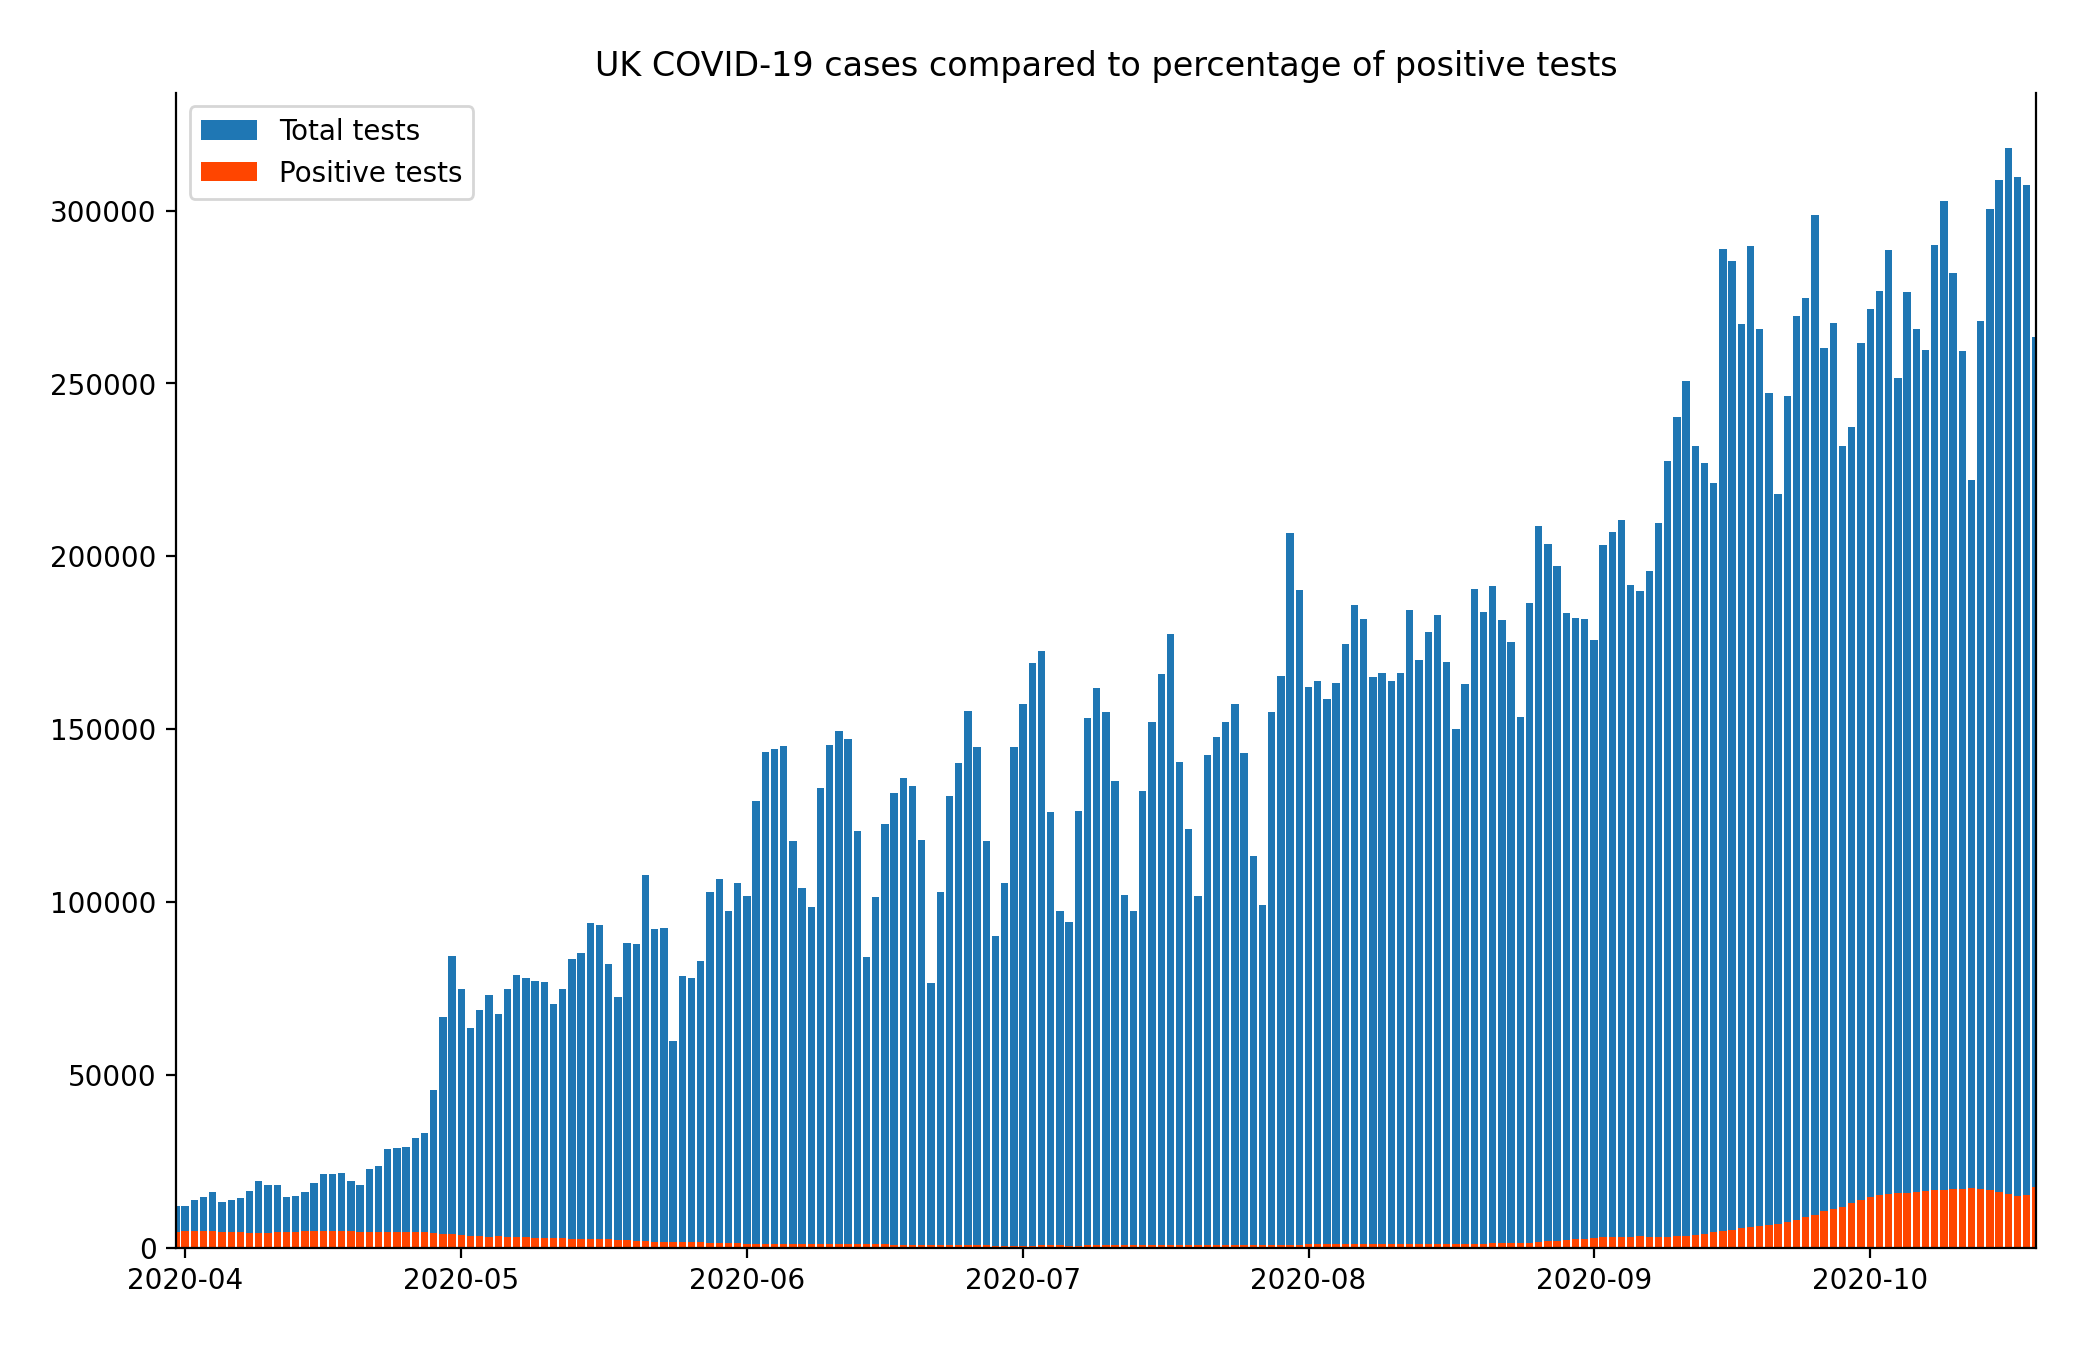
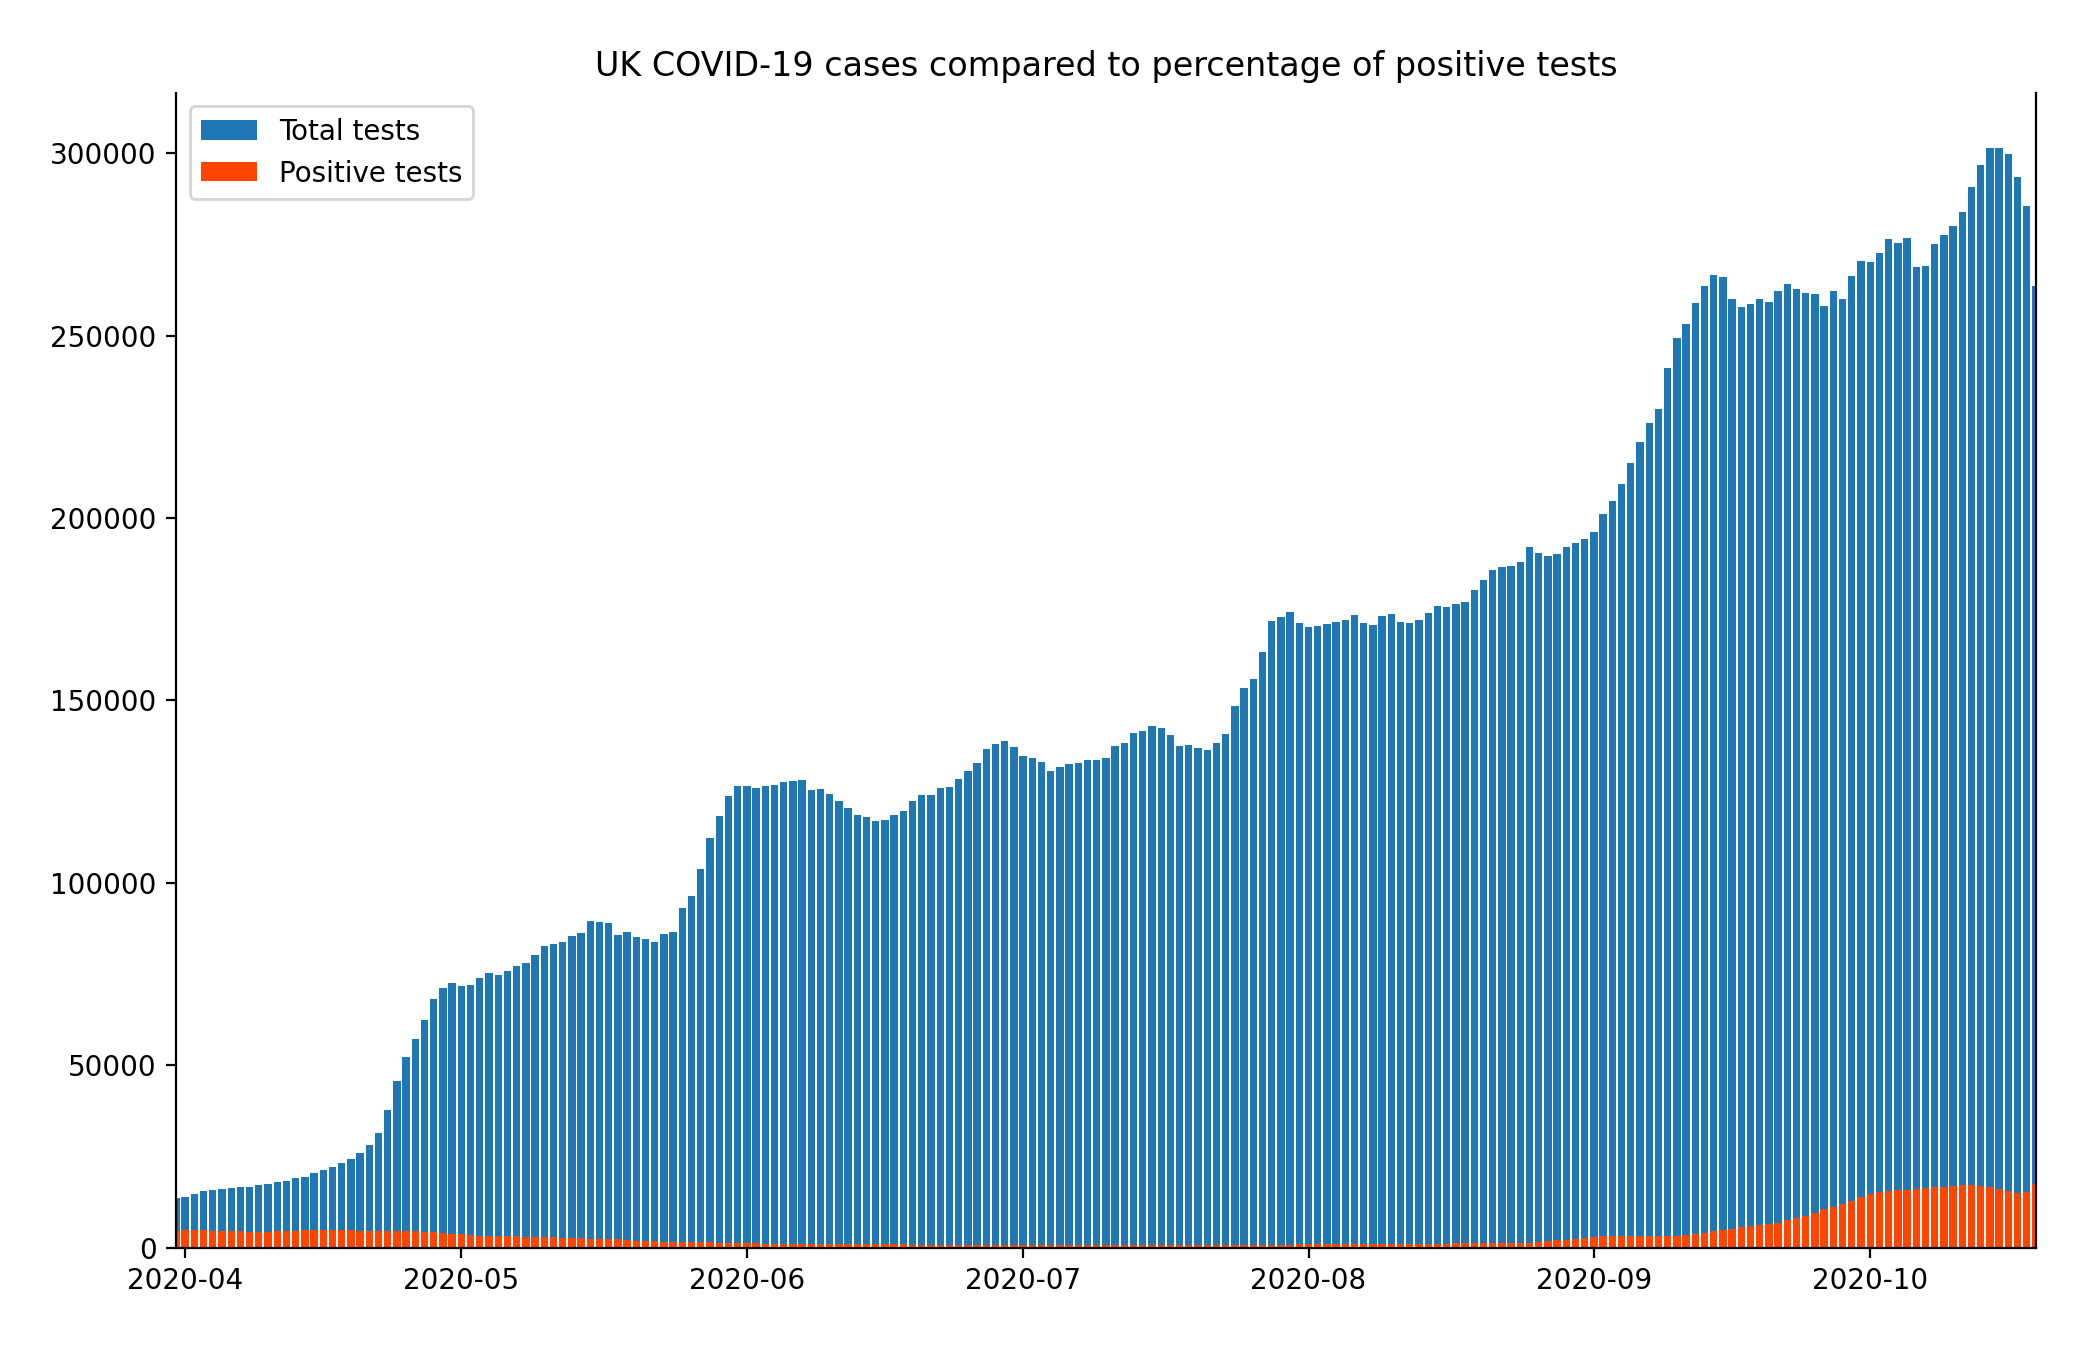
Fix avg plot

diff --git a/plot.py b/plot.py
@@ -6,7 +6,7 @@ import matplotlib.ticker as tkr
 import numpy as np
 
 
-def n_day_avg(xs, n):
+def n_day_avg(xs, n=7):
     """compute n day average of time series, using maximum possible number of days at
     start of series"""
     return [np.mean(xs[max(0, i + 1 - n) : i + 1]) for i in range(xs.shape[0])]
@@ -118,6 +118,8 @@ def plot(avg=True):
 
     ax.set_title("UK COVID-19 cases compared to percentage of positive tests")
 
+    if avg:
+        testTotal = n_day_avg(testTotal, 7)
     ax.bar(testDates, testTotal, color="C0", label="Total tests")
     ax.bar(casesDates, cases, color="orangered", label="Positive tests")
     ax.xaxis_date()
